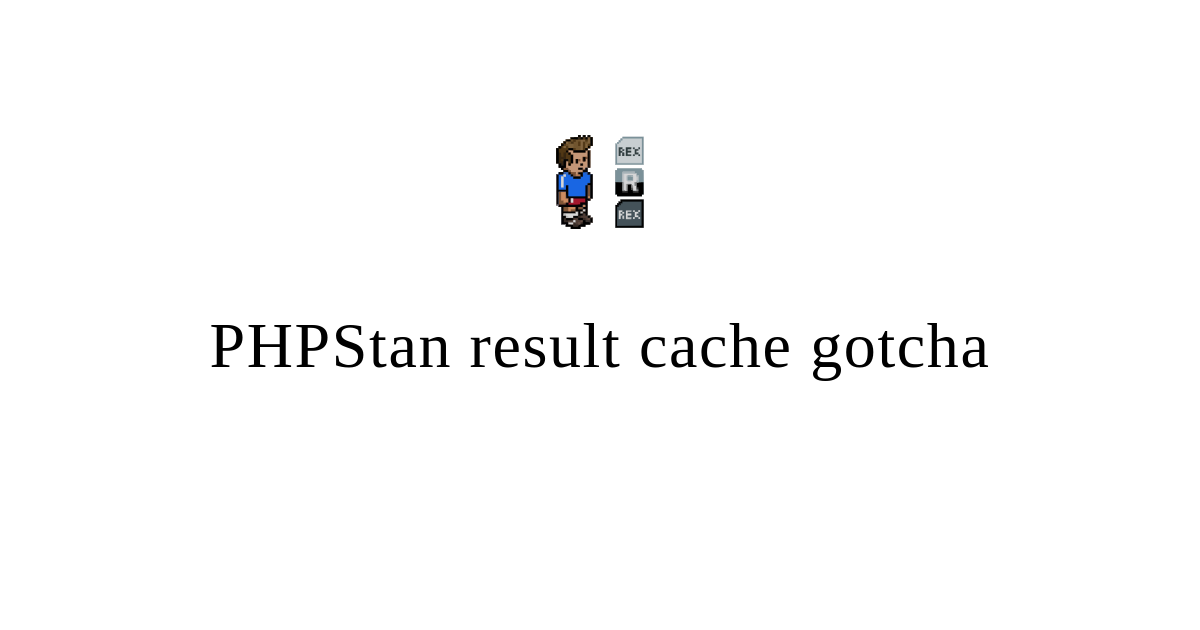
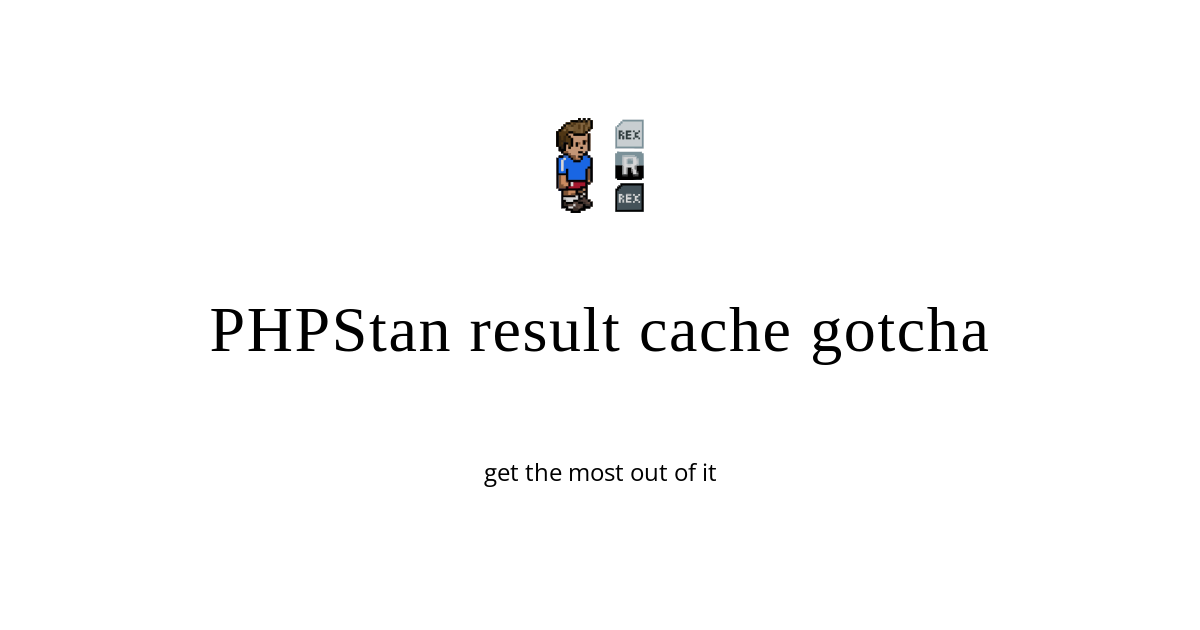
image (#92)

Changed region(s): [[0.1542, 0.4825, 0.8325, 0.6032], [0.4625, 0.181, 0.555, 0.3619], [0.4008, 0.7238, 0.5858, 0.7841]]

diff --git a/_posts/2023-10-21-phpstan-result-cache-gotchas.md b/_posts/2023-10-21-phpstan-result-cache-gotchas.md
@@ -7,6 +7,7 @@ image: "images/og-images/phpstan-result-cache-gotcha.jpg"
 
 ogImage:
     title: "PHPStan result cache gotcha"
+    subtitle: "get the most out of it"
     imageUrl: "https://staabm.github.io/staabm.svg"
     fileName: "phpstan-result-cache-gotcha"
 ---
@@ -17,11 +18,11 @@ In this post we will have a top level look on PHPStan performance from a enduser
 
 ## Goal
 
-While we are working hard on squeezing out every bit of performance out of PHPStan,
+While we are working hard on [squeezing out every bit of performance](https://github.com/phpstan/phpstan-src/pulls?q=is%3Apr+sort%3Aupdated-desc+fast+is%3Amerged+) out of PHPStan,
 you as an end user should foremost make sure that PHPStan can benefit from its [result cache](https://phpstan.org/user-guide/result-cache) as often as it can.
 
 In the projects I am working on, we usually see PHPStan analysis times dropping from 5-10 _minutes_ to 10-30 _seconds_
-when everyting is going according to plan and the tool can do its job utilizing the result cache.
+when everything is going according to plan and the tool can do its job utilizing the result cache.
 
 But what could possibly go wrong?
 In this post I will write down what I learned from setting up PHPStan in a lot of different projects and environments.
@@ -161,7 +162,7 @@ When using GitHub Actions you should consider using a [cache action](https://git
           path: ./tmp
           key: "result-cache-v1-{% raw %}${{ matrix.php-version }}{% endraw %}-{% raw %}${{ github.run_id }}{% endraw %}"
           restore-keys: |
-            result-cache-v1-\${{ matrix.php-version }}-
+            result-cache-v1-{% raw %}${{ matrix.php-version }}{% endraw %}-
 ```
 
 - By default the cache is written within `./tmp` on linux based systems
